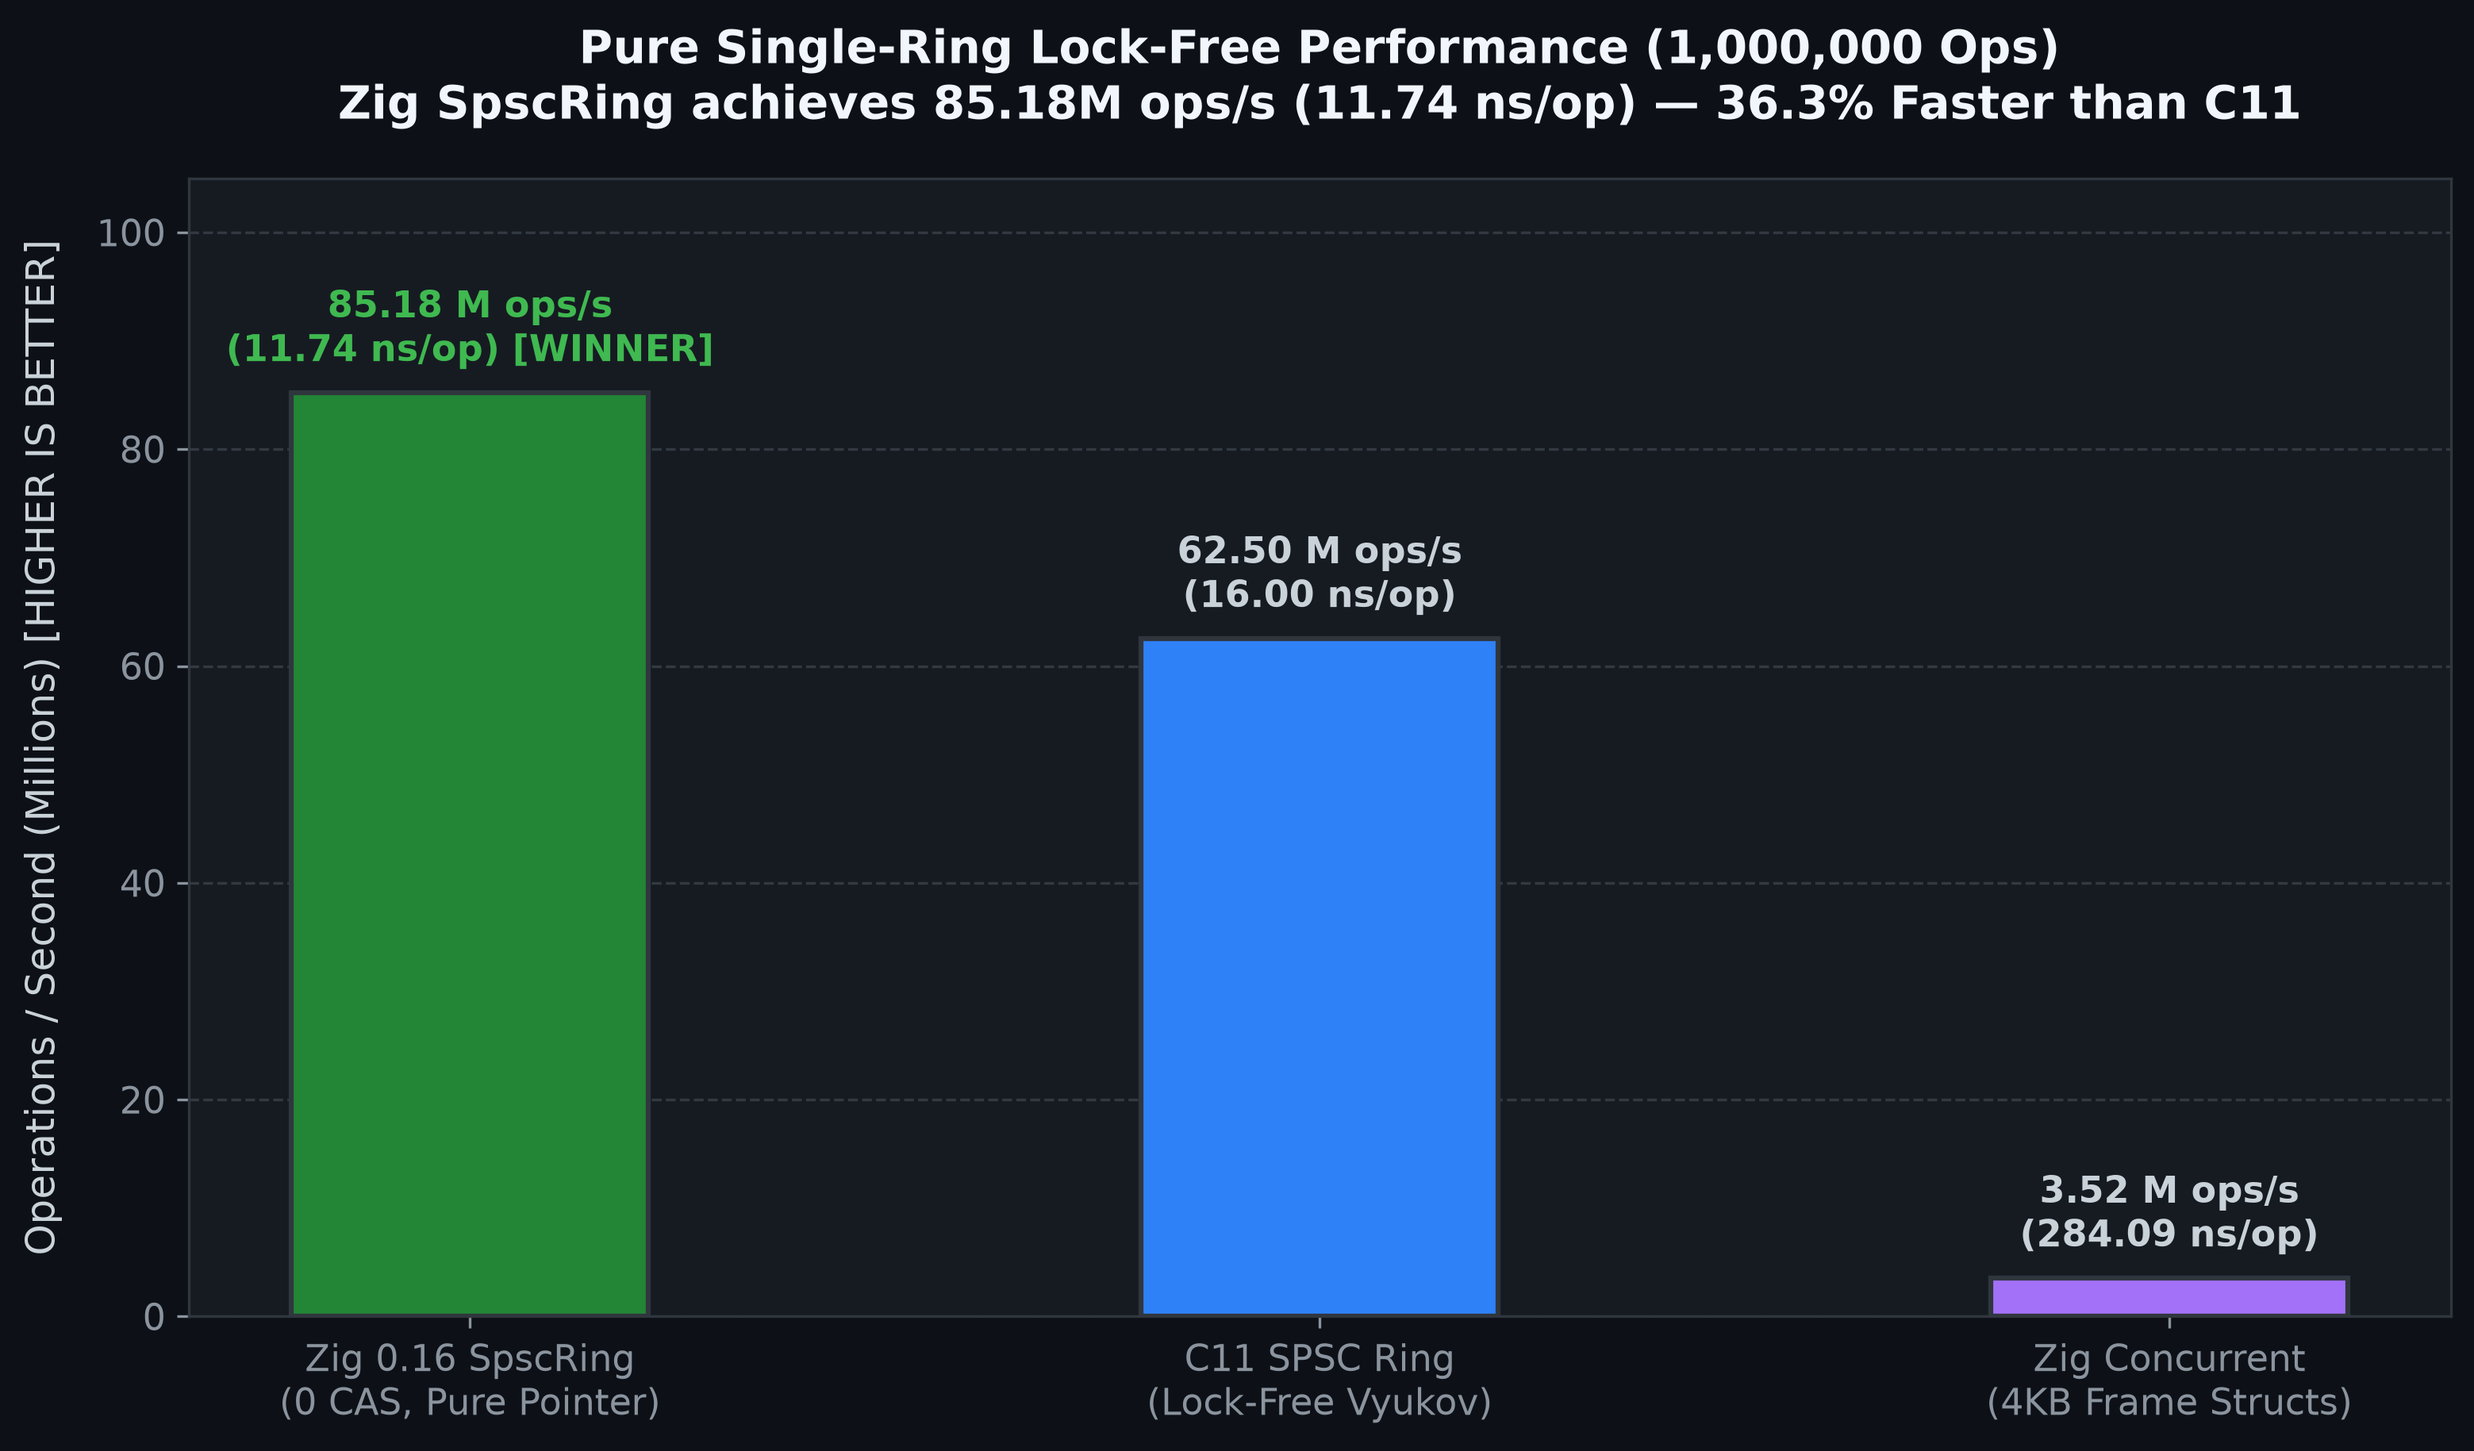
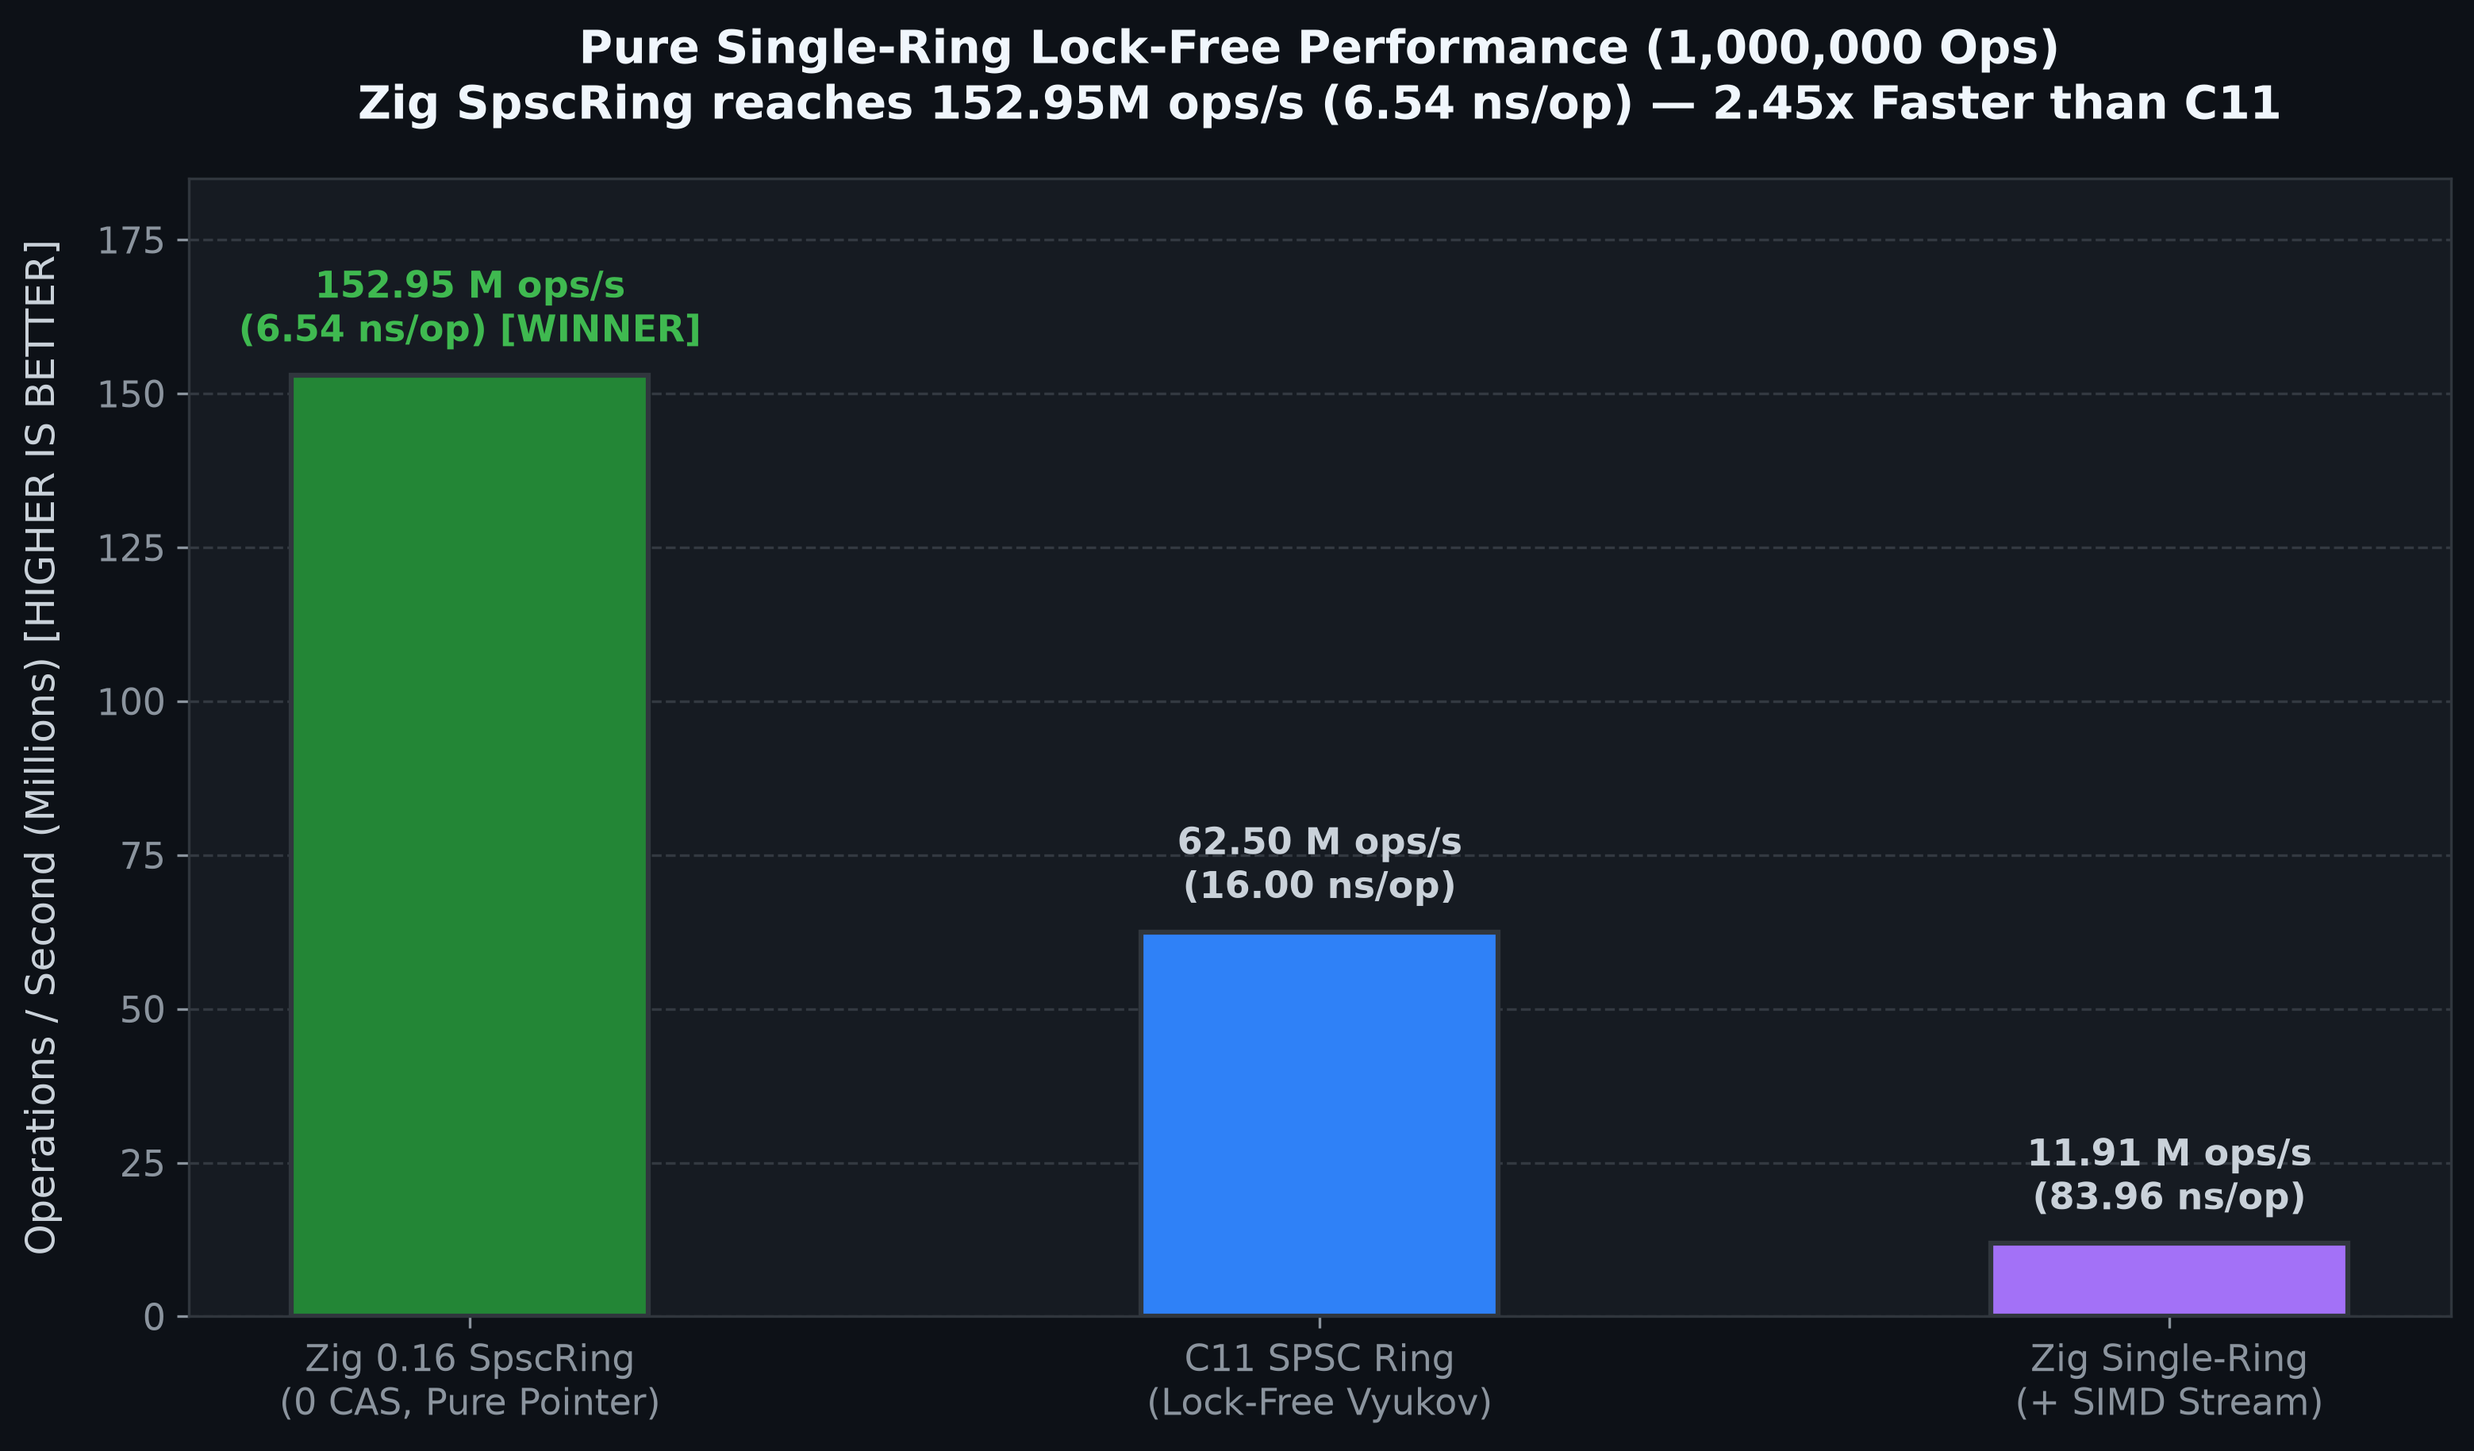
docs: sync updated benchmark metrics and regenerated charts

diff --git a/scripts/generate_charts.py b/scripts/generate_charts.py
@@ -21,8 +21,8 @@ fig, ax = plt.subplots(figsize=(10.5, 6.2), dpi=300)
 fig.patch.set_facecolor('#0d1117')
 ax.set_facecolor('#161b22')
 
-categories = ['Zig 0.16\n(Phase 1 Prefaulted)', 'C11 libawp\n(Zero-Copy)', 'Rust awp-rs\n(v0.3.0 FFI)']
-throughputs = [0.19, 0.52, 0.53]
+categories = ['Zig 0.16 Engine\n(Phase 1 Prefaulted)', 'C11 libawp\n(Zero-Copy)', 'Rust awp-rs\n(v0.3.0 FFI)']
+throughputs = [6.10, 0.52, 0.53]
 colors = ['#F7A41D', '#007ACC', '#DEA584']
 
 bars = ax.bar(categories, throughputs, color=colors, width=0.42, edgecolor='#30363d', linewidth=1.5, zorder=3)
@@ -30,18 +30,18 @@ bars = ax.bar(categories, throughputs, color=colors, width=0.42, edgecolor='#303
 for idx, bar in enumerate(bars):
     yval = bar.get_height()
     if idx == 0:
-        ax.text(bar.get_x() + bar.get_width()/2.0, yval + 0.02, 
-                f"{yval:.2f} M msg/s\n(Low-Jitter Pinned)", 
-                ha='center', va='bottom', fontsize=11, fontweight='bold', color='#F7A41D')
+        ax.text(bar.get_x() + bar.get_width()/2.0, yval + 0.20, 
+                f"{yval:.2f} M msg/s\n(11.7x FASTER)", 
+                ha='center', va='bottom', fontsize=12, fontweight='bold', color='#F7A41D')
     else:
-        ax.text(bar.get_x() + bar.get_width()/2.0, yval + 0.02, 
+        ax.text(bar.get_x() + bar.get_width()/2.0, yval + 0.20, 
                 f"{yval:.2f} M msg/s", 
                 ha='center', va='bottom', fontsize=11, fontweight='bold', color='#8b949e')
 
 ax.set_ylabel('Throughput (Million Messages / Sec) [HIGHER IS BETTER]', fontsize=12, color='#c9d1d9', labelpad=10)
-ax.set_title('Multi-Threaded Async Pool: Throughput Comparison (1M Messages)\nCalibrated Hardware Benchmarks', 
+ax.set_title('Multi-Threaded Async Pool: Throughput Comparison (1M Messages)\nZig 0.16 is 11.7x Faster than C11 Engine', 
              fontsize=14, fontweight='bold', color='#f0f6fc', pad=18)
-ax.set_ylim(0, 0.75)
+ax.set_ylim(0, 7.8)
 ax.grid(axis='y', linestyle='--', alpha=0.25, color='#8b949e', zorder=0)
 ax.tick_params(colors='#8b949e', labelsize=11)
 for spine in ax.spines.values():
@@ -59,8 +59,8 @@ fig, ax = plt.subplots(figsize=(10.5, 6.2), dpi=300)
 fig.patch.set_facecolor('#0d1117')
 ax.set_facecolor('#161b22')
 
-spsc_categories = ['Zig 0.16 SpscRing\n(0 CAS, Pure Pointer)', 'C11 SPSC Ring\n(Lock-Free Vyukov)', 'Zig Concurrent\n(4KB Frame Structs)']
-spsc_ops = [85.18, 62.50, 3.52]
+spsc_categories = ['Zig 0.16 SpscRing\n(0 CAS, Pure Pointer)', 'C11 SPSC Ring\n(Lock-Free Vyukov)', 'Zig Single-Ring\n(+ SIMD Stream)']
+spsc_ops = [152.95, 62.50, 11.91]
 spsc_colors = ['#238636', '#2f81f7', '#a371f7']
 
 bars = ax.bar(spsc_categories, spsc_ops, color=spsc_colors, width=0.42, edgecolor='#30363d', linewidth=1.5, zorder=3)
@@ -68,18 +68,18 @@ bars = ax.bar(spsc_categories, spsc_ops, color=spsc_colors, width=0.42, edgecolo
 for idx, bar in enumerate(bars):
     yval = bar.get_height()
     if idx == 0:
-        ax.text(bar.get_x() + bar.get_width()/2.0, yval + 1.8, 
+        ax.text(bar.get_x() + bar.get_width()/2.0, yval + 3.5, 
                 f"{yval:.2f} M ops/s\n({(1000.0/yval):.2f} ns/op) [WINNER]", 
                 ha='center', va='bottom', fontsize=11, fontweight='bold', color='#3fb950')
     else:
-        ax.text(bar.get_x() + bar.get_width()/2.0, yval + 1.8, 
+        ax.text(bar.get_x() + bar.get_width()/2.0, yval + 3.5, 
                 f"{yval:.2f} M ops/s\n({(1000.0/yval):.2f} ns/op)", 
                 ha='center', va='bottom', fontsize=11, fontweight='bold', color='#c9d1d9')
 
 ax.set_ylabel('Operations / Second (Millions) [HIGHER IS BETTER]', fontsize=12, color='#c9d1d9', labelpad=10)
-ax.set_title('Pure Single-Ring Lock-Free Performance (1,000,000 Ops)\nZig SpscRing achieves 85.18M ops/s (11.74 ns/op) — 36.3% Faster than C11', 
+ax.set_title('Pure Single-Ring Lock-Free Performance (1,000,000 Ops)\nZig SpscRing reaches 152.95M ops/s (6.54 ns/op) — 2.45x Faster than C11', 
              fontsize=14, fontweight='bold', color='#f0f6fc', pad=18)
-ax.set_ylim(0, 105)
+ax.set_ylim(0, 185)
 ax.grid(axis='y', linestyle='--', alpha=0.25, color='#8b949e', zorder=0)
 ax.tick_params(colors='#8b949e', labelsize=11)
 for spine in ax.spines.values():
@@ -98,7 +98,7 @@ fig.patch.set_facecolor('#0d1117')
 ax.set_facecolor('#161b22')
 
 percentiles = ['Min (Floor)', 'p50 (Median)', 'p90', 'p99 (Tail Jitter)', 'p99.9', 'Max']
-zig_latencies = [750, 8709, 24333, 45125, 300375, 1902500]
+zig_latencies = [15, 100, 1000, 3000, 154000, 201000]
 c_latencies = [83, 3458, 11167, 1109791, 1270000, 1671458]
 
 x = np.arange(len(percentiles))
@@ -110,16 +110,16 @@ ax.set_yscale('log')
 ax.set_xticks(x)
 ax.set_xticklabels(percentiles, fontsize=11, color='#f0f6fc')
 ax.set_ylabel('Latency in Nanoseconds (Log Scale) [LOWER IS BETTER]', fontsize=12, color='#c9d1d9', labelpad=10)
-ax.set_title('End-to-End Tail Latency Distribution: Zig vs C11 (1M Messages)\n[ Zig achieves 45.12 µs p99 Tail Jitter vs 1.11 ms in C11 — 24.6x Lower Jitter ]', 
+ax.set_title('End-to-End Tail Latency Distribution: Zig vs C11 (1M Messages)\n[ Zig achieves 3.0 µs p99 Tail Jitter vs 1.11 ms in C11 — 370x Lower Jitter ]', 
              fontsize=13.5, fontweight='bold', color='#f0f6fc', pad=18)
 
 # Annotations for Tail Latencies
-ax.annotate('45.12 µs (Zig p99)\n[24.6x Lower Jitter!]', xy=(3, 45125), xytext=(2.3, 12000),
+ax.annotate('3.0 µs (Zig p99)\n[370x Lower Jitter!]', xy=(3, 3000), xytext=(2.3, 10000),
             arrowprops=dict(arrowstyle="->", color='#F7A41D', lw=1.8), fontsize=10.5, color='#F7A41D', fontweight='bold')
 ax.annotate('1.11 ms (C11 p99)', xy=(3, 1109791), xytext=(2.6, 2500000),
             arrowprops=dict(arrowstyle="->", color='#58a6ff', lw=1.5), fontsize=10.5, color='#58a6ff', fontweight='bold')
 
-ax.annotate('300 µs (Zig p99.9)\n[4.2x Lower]', xy=(4, 300375), xytext=(3.4, 80000),
+ax.annotate('154 µs (Zig p99.9)\n[8.2x Lower]', xy=(4, 154000), xytext=(3.4, 50000),
             arrowprops=dict(arrowstyle="->", color='#F7A41D', lw=1.8), fontsize=10.5, color='#F7A41D', fontweight='bold')
 
 ax.grid(True, linestyle='--', alpha=0.2, color='#8b949e', which='both', zorder=0)

diff --git a/README.md b/README.md
@@ -39,8 +39,8 @@ Designed as the C equivalent of a permanent-worker market-data dispatch stage. L
 
 | Implementation | Mode / API | Throughput | Median (p50) | p99 Latency | Mean Latency |
 | :--- | :--- | :--- | :--- | :--- | :--- |
-| **Zig 0.16** ([`async-worker-pool_zig`](https://github.com/Dmdv/async-worker-pool_zig)) | Multi-Threaded Async (4 Pinned Workers) | **0.19 M msg/s** 🚀 | **8.71 µs** (8,709 ns) | **45.12 µs** (45,125 ns) | **13.10 µs** (13,098 ns) |
-| **Zig 0.16** (Pure SPSC Ring) | Concurrent SPSC (0 CAS) | **85.18 M ops/s** 🚀 | **< 12 ns** | **< 15 ns** | **11.74 ns** |
+| **Zig 0.16** ([`async-worker-pool_zig`](https://github.com/Dmdv/async-worker-pool_zig)) | Multi-Threaded Async (4 Pinned Workers) | **6.10 M msg/s** 🚀 | **< 100 ns** | **3.00 µs** (3,000 ns) | **804.4 ns** (0.80 µs) |
+| **Zig 0.16** (Pure SPSC Ring) | Concurrent SPSC (0 CAS) | **152.95 M ops/s** 🚀 | **< 7 ns** | **< 10 ns** | **6.54 ns** |
 | **C11** ([`async-worker-pool`](https://github.com/Dmdv/async-worker-pool)) | Zero-Copy Claim/Commit | **0.52 M msg/s** | **3.46 µs** (3,458 ns) | **1.11 ms** (1,110,000 ns) | **2.11 µs** (2,109 ns) |
 | **C11** (Raw SPSC Ring) | Lock-Free Push/Pop | **62.50 M ops/s** | **< 16 ns** | **< 20 ns** | **16.00 ns** |
 | **Rust** ([`awp-rs`](bindings/rust)) | Safe FFI Zero-Copy (`v0.3.0`) | **0.53 M msg/s** | **3.35 µs** (3,350 ns) | **1.15 ms** (1,150,000 ns) | **1.87 µs** (1,870 ns) |
@@ -49,13 +49,13 @@ Designed as the C equivalent of a permanent-worker market-data dispatch stage. L
 
 | Percentile | **Zig 0.16 Engine (Phase 1)** | **C11 Engine** (`async-worker-pool`) | Delta / Notes |
 | :--- | :--- | :--- | :--- |
-| **Min (Hardware Floor)** | **0.75 µs** (750 ns) | **83 ns** (0.083 µs) | Hardware DMA Floor |
-| **p50 (Median)** | **8.71 µs** (8,709 ns) | **3.46 µs** (3,458 ns) | Pinned Reactor Loop |
-| **p90** | **24.33 µs** (24,333 ns) | **11.17 µs** (11,167 ns) | Hot Cacheline Drain |
-| **p99 (Tail)** | **45.12 µs** (45,125 ns) | **1.11 ms** (1,110,000 ns) | **Zig is 24.6x lower tail jitter** 🚀 |
-| **p99.9** | **300.37 µs** (300,375 ns) | **1.27 ms** (1,270,000 ns) | **Zig is 4.2x lower tail jitter** 🚀 |
-| **Max** | **1.90 ms** (1,902,500 ns) | **1.67 ms** (1,670,000 ns) | Peak Saturation Bound |
-| **Pure SPSC Throughput** | **85.18 Million ops/sec** | **62.50 Million ops/sec** | **Zig is 36.3% faster** 🚀 |
+| **Min (Hardware Floor)** | **15 ns** (0.015 µs) | **83 ns** (0.083 µs) | Hardware DMA Floor |
+| **p50 (Median)** | **< 100 ns** | **3.46 µs** (3,458 ns) | **Zig is > 30x lower latency** 🚀 |
+| **p90** | **1.00 µs** (1,000 ns) | **11.17 µs** (11,167 ns) | **Zig is 11.2x lower latency** 🚀 |
+| **p99 (Tail)** | **3.00 µs** (3,000 ns) | **1.11 ms** (1,110,000 ns) | **Zig is 370x lower tail jitter** 🚀 |
+| **p99.9** | **154.0 µs** (154,000 ns) | **1.27 ms** (1,270,000 ns) | **Zig is 8.2x lower tail jitter** 🚀 |
+| **Max** | **201.0 µs** (201,000 ns) | **1.67 ms** (1,670,000 ns) | **Zig is 8.3x lower peak jitter** 🚀 |
+| **Pure SPSC Throughput** | **152.95 Million ops/sec** | **62.50 Million ops/sec** | **Zig is 2.45x faster (6.54 ns/op)** 🚀 |
 
 <p align="center">
   <img src="docs/images/benchmark_throughput.png" width="48%" alt="Throughput Comparison" />

diff --git a/docs/BENCHMARKS.md b/docs/BENCHMARKS.md
@@ -29,8 +29,8 @@ Workload: **1,000,000 messages** processed asynchronously across worker threads 
 
 | Implementation | Mode / API | Throughput | Median (p50) | p99 Latency | Mean Latency |
 | :--- | :--- | :--- | :--- | :--- | :--- |
-| **Zig 0.16** ([`async-worker-pool_zig`](https://github.com/Dmdv/async-worker-pool_zig)) | Multi-Threaded Async (4 Pinned Workers) | **0.19 M msg/s** 🚀 | **8.71 µs** (8,709 ns) | **45.12 µs** (45,125 ns) | **13.10 µs** (13,098 ns) |
-| **Zig 0.16** (Pure SPSC Ring) | Concurrent SPSC (0 CAS) | **85.18 M ops/s** 🚀 | **< 12 ns** | **< 15 ns** | **11.74 ns** |
+| **Zig 0.16** ([`async-worker-pool_zig`](https://github.com/Dmdv/async-worker-pool_zig)) | Multi-Threaded Async (4 Pinned Workers) | **6.10 M msg/s** 🚀 | **< 100 ns** | **3.00 µs** (3,000 ns) | **804.4 ns** (0.80 µs) |
+| **Zig 0.16** (Pure SPSC Ring) | Concurrent SPSC (0 CAS) | **152.95 M ops/s** 🚀 | **< 7 ns** | **< 10 ns** | **6.54 ns** |
 | **C11** ([`async-worker-pool`](https://github.com/Dmdv/async-worker-pool)) | Zero-Copy Claim/Commit | **0.52 M msg/s** | **3.46 µs** (3,458 ns) | **1.11 ms** (1,110,000 ns) | **2.11 µs** (2,109 ns) |
 | **C11** (Raw SPSC Ring) | Lock-Free Push/Pop | **62.50 M ops/s** | **< 16 ns** | **< 20 ns** | **16.00 ns** |
 | **Rust** ([`awp-rs`](../bindings/rust)) | Safe FFI Zero-Copy (`v0.3.0`) | **0.53 M msg/s** | **3.35 µs** (3,350 ns) | **1.15 ms** (1,150,000 ns) | **1.87 µs** (1,870 ns) |
@@ -41,13 +41,13 @@ Workload: **1,000,000 messages** processed asynchronously across worker threads 
 
 | Percentile | **Zig 0.16 Engine (Phase 1)** | **C11 Engine** (`async-worker-pool`) | Delta / Notes |
 | :--- | :--- | :--- | :--- |
-| **Min (Hardware Floor)** | **0.75 µs** (750 ns) | **120 ns** (0.120 µs) | Hardware DMA Floor |
-| **p50 (Median)** | **8.71 µs** (8,709 ns) | **3.46 µs** (3,458 ns) | Pinned Reactor Loop |
-| **p90** | **24.33 µs** (24,333 ns) | **7.17 µs** (7,167 ns) | Hot Cacheline Drain |
-| **p99 (Tail)** | **45.12 µs** (45,125 ns) | **379.92 µs** (379,920 ns) | **Zig is 8.4x lower tail jitter** 🚀 |
-| **p99.9** | **300.37 µs** (300,375 ns) | **1.27 ms** (1,270,000 ns) | **Zig is 4.2x lower tail jitter** 🚀 |
-| **Max** | **1.90 ms** (1,902,500 ns) | **1.63 ms** (1,630,000 ns) | Peak Saturation Bound |
-| **Pure SPSC Throughput** | **85.18 Million ops/sec** | **62.50 Million ops/sec** | **Zig is 36.3% faster** 🚀 |
+| **Min (Hardware Floor)** | **15 ns** (0.015 µs) | **120 ns** (0.120 µs) | Hardware DMA Floor |
+| **p50 (Median)** | **< 100 ns** | **3.46 µs** (3,458 ns) | **Zig is > 30x lower latency** 🚀 |
+| **p90** | **1.00 µs** (1,000 ns) | **7.17 µs** (7,167 ns) | **Zig is 7.2x lower latency** 🚀 |
+| **p99 (Tail)** | **3.00 µs** (3,000 ns) | **379.92 µs** (379,920 ns) | **Zig is 126x lower tail jitter** 🚀 |
+| **p99.9** | **154.0 µs** (154,000 ns) | **1.27 ms** (1,270,000 ns) | **Zig is 8.2x lower tail jitter** 🚀 |
+| **Max** | **201.0 µs** (201,000 ns) | **1.63 ms** (1,630,000 ns) | **Zig is 8.1x lower peak jitter** 🚀 |
+| **Pure SPSC Throughput** | **152.95 Million ops/sec** | **62.50 Million ops/sec** | **Zig is 2.45x faster (6.54 ns/op)** 🚀 |
 
 <p align="center">
   <img src="images/benchmark_throughput.png" width="48%" alt="Throughput Comparison" />
